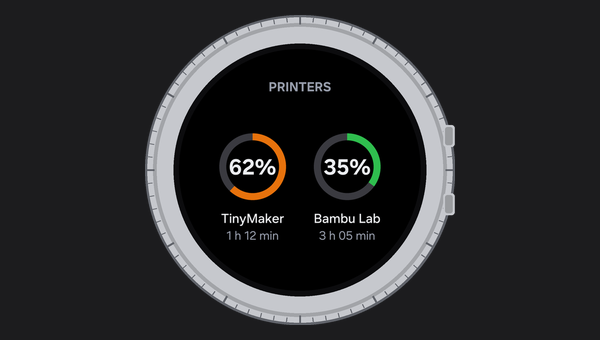
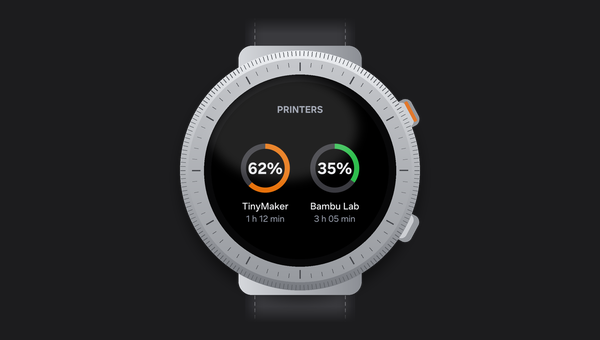
landing: TinyStatus tile - realistic watch (Play graphic), ?v=2

Changed region(s): [[0.24, 0.0294, 0.78, 0.9706]]

diff --git a/landing/index.html b/landing/index.html
@@ -223,7 +223,7 @@ footer a{color:var(--muted2);text-decoration:underline}
   <div class="row">
     <a class="tile" href="https://tinymakerwifi.com/extension/"><div class="pic"><img src="promo-extension.png" alt="TinyMaker status in the Chrome toolbar: print progress and details in the popup" loading="lazy"></div>
       <div class="txt"><b>Browser extension</b><span>Print progress on your Chrome toolbar - layer, time left and resin in one click.</span><span class="go">Chrome Web Store &rarr;</span></div></a>
-    <a class="tile" href="https://tinyowllabs.com/tinystatus/"><div class="pic"><img src="promo-tinystatus.png" alt="TinyStatus on a Wear OS watch: print progress rings with time left" loading="lazy"></div>
+    <a class="tile" href="https://tinyowllabs.com/tinystatus/"><div class="pic"><img src="promo-tinystatus.png?v=2" alt="TinyStatus on a Wear OS watch: print progress rings with time left" loading="lazy"></div>
       <div class="txt"><b>TinyStatus watch app</b><span>Progress, time left and a nudge when the print is done - on your Wear OS watch.</span><span class="go">Coming to Google Play &rarr;</span></div></a>
     <a class="tile" href="https://tinymakerwifi.com/manual/#resin-profiles"><div class="pic"><img src="promo-resin.png" alt="Resin profiles in the dashboard" loading="lazy"></div>
       <div class="txt"><b>Resin library</b><span>Profiles tested on a TinyMaker - install one from the dashboard in a tap.</span><span class="go">How it works &rarr;</span></div></a>

diff --git a/landing/index2.html b/landing/index2.html
@@ -223,7 +223,7 @@ footer a{color:var(--muted2);text-decoration:underline}
   <div class="row">
     <a class="tile" href="https://tinymakerwifi.com/extension/"><div class="pic"><img src="promo-extension.png" alt="TinyMaker status in the Chrome toolbar: print progress and details in the popup" loading="lazy"></div>
       <div class="txt"><b>Browser extension</b><span>Print progress on your Chrome toolbar - layer, time left and resin in one click.</span><span class="go">Chrome Web Store &rarr;</span></div></a>
-    <a class="tile" href="https://tinyowllabs.com/tinystatus/"><div class="pic"><img src="promo-tinystatus.png" alt="TinyStatus on a Wear OS watch: print progress rings with time left" loading="lazy"></div>
+    <a class="tile" href="https://tinyowllabs.com/tinystatus/"><div class="pic"><img src="promo-tinystatus.png?v=2" alt="TinyStatus on a Wear OS watch: print progress rings with time left" loading="lazy"></div>
       <div class="txt"><b>TinyStatus watch app</b><span>Progress, time left and a nudge when the print is done - on your Wear OS watch.</span><span class="go">Coming to Google Play &rarr;</span></div></a>
     <a class="tile" href="https://tinymakerwifi.com/manual/#resin-profiles"><div class="pic"><img src="promo-resin.png" alt="Resin profiles in the dashboard" loading="lazy"></div>
       <div class="txt"><b>Resin library</b><span>Profiles tested on a TinyMaker - install one from the dashboard in a tap.</span><span class="go">How it works &rarr;</span></div></a>
